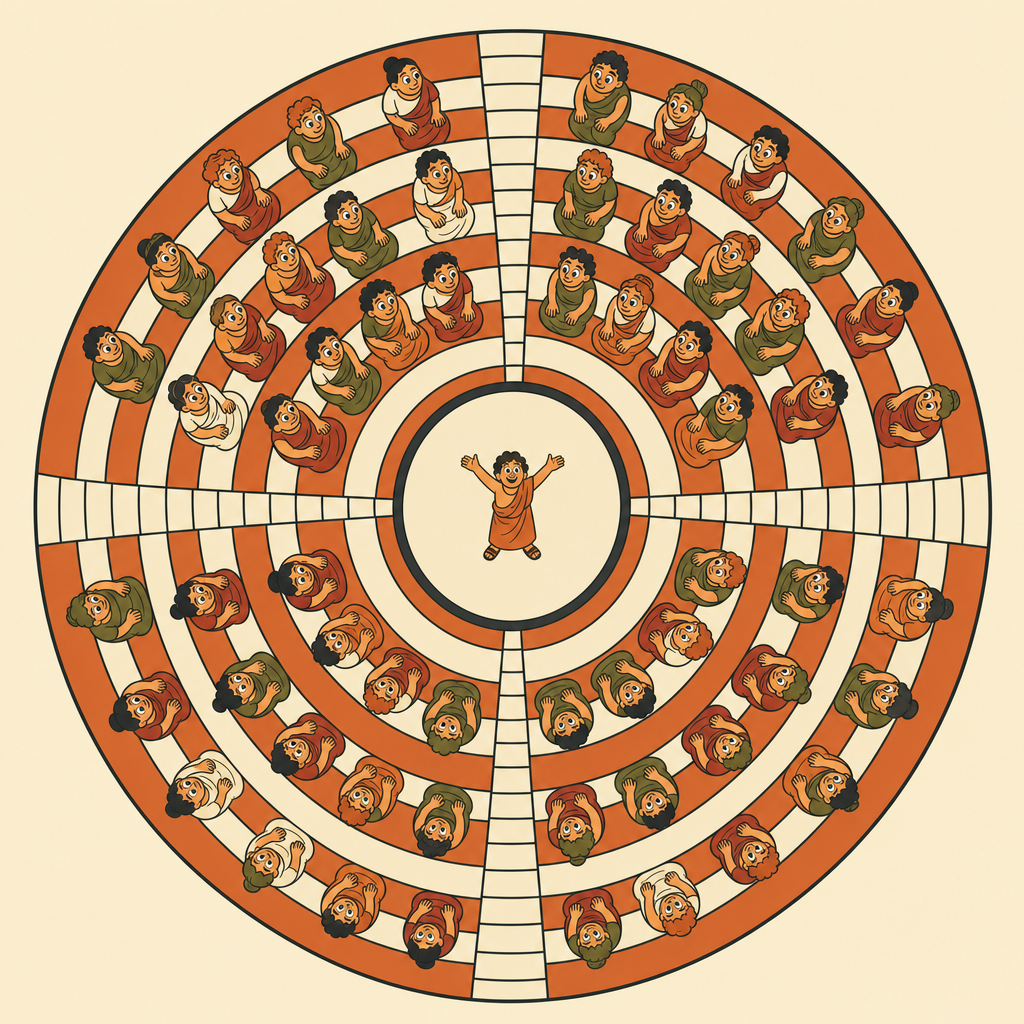
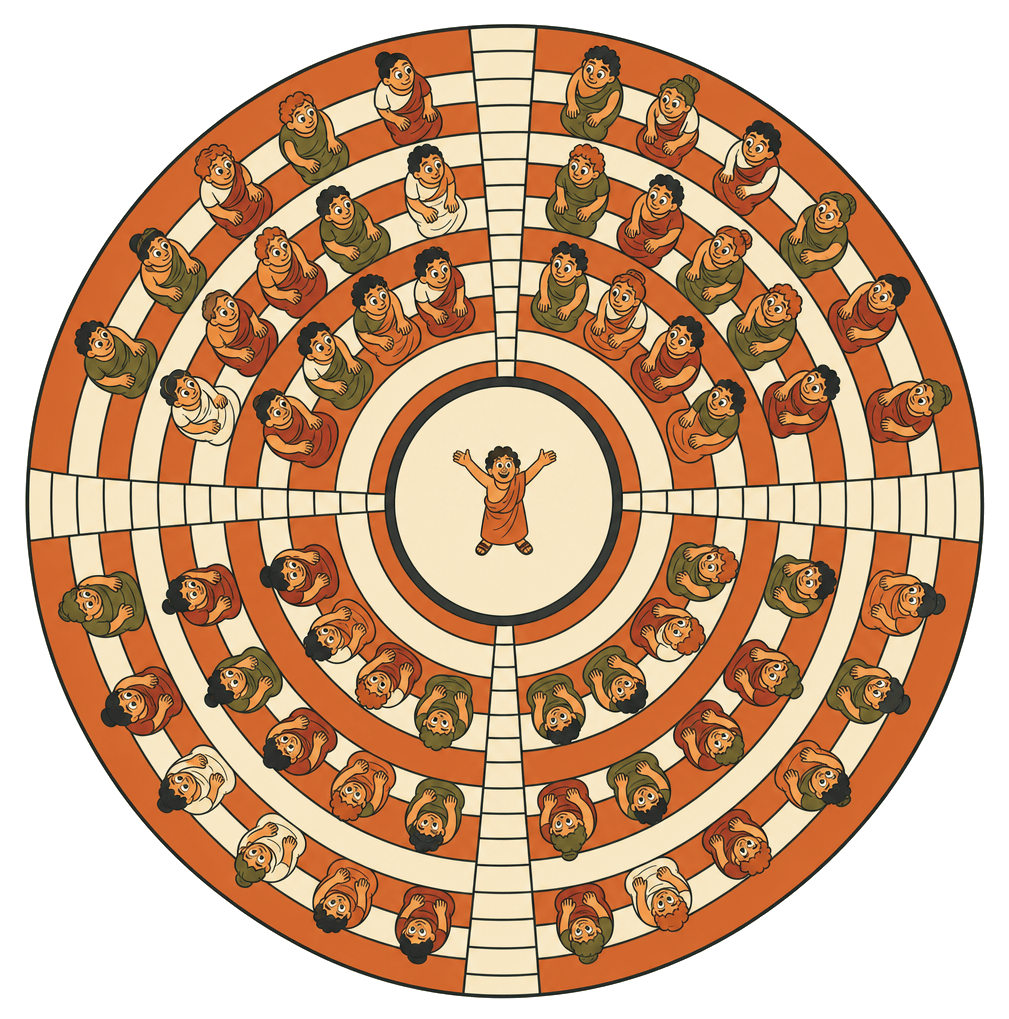
site: the plates become stickers — the generated cream cut to alpha, sat on the page (#13)
Reviewed: scratchpad/review-sono-stickers.md — 0 blocking; S1 (make.py target routing) fixed in c6be058; PNGs quantised.

diff --git a/site/og.html b/site/og.html
@@ -12,7 +12,7 @@
   corner; the real popover on the right — the app's own --render-preview,
   its "listening" state (a live line, the engine picker) — bleeding off the
   right and the bottom with the transcript and picker whole; the philosopher
-  and the scribe as a sticker (art/sticker.py → art/stickers/hero.png) in
+  and the scribe as a sticker (art/sticker.py → src/assets/plates/hero.png) in
   the left column below the copy, 460px wide, his feet just off the bottom,
   the sound arcs reaching the popover's edge. Text never overlays the art.
 
@@ -69,7 +69,7 @@
 <body>
   <div class="colonnade"></div>
   <img class="popover" src="src/assets/popover.png" alt="">
-  <img class="art" src="art/stickers/hero.png" alt="">
+  <img class="art" src="src/assets/plates/hero.png" alt="">
   <div class="pad">
     <div class="brand">
       <svg width="34" height="34" viewBox="0 0 32 32">

diff --git a/site/art/sticker.py b/site/art/sticker.py
@@ -1,30 +1,36 @@
 #!/usr/bin/env python3
 """
 The sticker cut, ported from rheocles/site/art/sticker.py. A generated plate
-arrives on its own flat cream, never quite the site's --stone; this lifts
-the drawing off it: flood-fill the background to transparency from the four
-edges, soften the one-pixel edge, trim to the drawing plus a constant
-margin, and write the result with alpha.
-
-On sonocles.com the plates stay on their cream rectangles — Len likes the
-hero as it is — so the stickers are for the social card only and land in
-art/stickers/, not src/assets/plates/. The originals in art/originals/ are
-the plates as make.py wrote them (the repo-root art/plates/ is the retired
-museum set); the script is idempotent from them.
+arrives on its own flat cream, never quite the site's --stone, so on the
+page each one reads as a slightly-off rectangle. This lifts the drawing off
+that cream so it sits directly on the page: flood-fill the background to
+transparency from the four edges, soften the one-pixel edge, trim to the
+drawing plus a constant margin, and write the result with alpha to
+src/assets/plates/, where index.astro imports it.
 
     python3 site/art/sticker.py             # every plate in art/originals
-    python3 site/art/sticker.py hero        # just that one
+    python3 site/art/sticker.py hero mic    # just those
 
-Needs Pillow, numpy and scipy — a throwaway venv, or `python3 -m pip
-install --user pillow numpy scipy`; not the site's dependencies.
+Post-processing, not regeneration: art/originals/ holds the plates as
+art/make.py wrote them (the repo-root art/plates/ is the retired museum set,
+not these), and this runs after it. It is idempotent from the originals, so
+running it twice is the same as running it once. Needs Pillow, numpy and
+scipy — a throwaway venv, or `python3 -m pip install --user pillow numpy
+scipy`; they are not the site's dependencies and do not belong in
+package.json.
 
 The fill only follows the background inward from the edges, so a cream area
-enclosed by an outline is left alone. A gap in an outline lets the fill leak
-into such an area and leaves a hole; the fix is a tighter TOLERANCE for that
-plate, below. A drawing that touches the frame cannot be helped here — it
-needs regenerating with everything inside the frame — so it goes in SKIP.
+enclosed by an outline (a tablet, a tunic, the theatre's rings) is left
+alone. A gap in an outline lets the fill leak into such an area and leaves a
+hole; the fix is a tighter TOLERANCE for that plate, below. A drawing that
+touches the frame cannot be helped here — it needs regenerating with
+everything inside the frame (art/make.py's style block asks for that) — so
+it goes in SKIP and ships on its rectangle, `boxed` in Plate.astro, rather
+than as half a sticker.
 """
 
+import shutil
+import subprocess
 import sys
 from pathlib import Path
 
@@ -33,10 +39,8 @@ from PIL import Image
 from scipy import ndimage
 
 HERE = Path(__file__).resolve().parent
-# The plates as make.py generated them (the repo-root art/plates/ is the
-# retired museum set, not these). Copied here untouched; the source.
 ORIGINALS = HERE / "originals"
-OUT = HERE / "stickers"
+OUT = HERE.parent / "src" / "assets" / "plates"
 
 # How far a pixel may sit from the background colour (max channel difference,
 # 0–255) and still be background. The plates' cream is flat, so this is
@@ -55,7 +59,8 @@ OPAQUE_AT = 110
 MARGIN = 24
 
 # Plates that touch the frame: the cut would show as a hard straight edge.
-# Copied through unchanged until they are regenerated (site/ART.md).
+# Copied through unchanged, and given `boxed` in index.astro, until they are
+# regenerated. None of the five, as of 13 Sep 2026.
 SKIP: set[str] = set()
 
 
@@ -111,6 +116,22 @@ def sticker(name: str, tolerance: int) -> tuple[int, int, int, int]:
     return left, top, right, bottom
 
 
+def shrink(path: Path) -> str:
+    """Quantise to a palette (pngquant) and repack (oxipng), in place. The
+    drawings are flat fills, so 256 colours plus alpha reproduce them to the
+    eye; checked on the page at 1× before this was switched on."""
+    tools = [tool for tool in ("pngquant", "oxipng") if shutil.which(tool)]
+    if "pngquant" in tools:
+        subprocess.run(
+            ["pngquant", "--quality", "85-100", "--speed", "1", "--strip", "--force", "--output", path, path],
+            check=True,
+        )
+    if "oxipng" in tools:
+        subprocess.run(["oxipng", "-q", "-o", "4", "--strip", "safe", path], check=True)
+    size = f"{path.stat().st_size / 1024:.0f} KB"
+    return f"{size} ({'+'.join(tools)})" if tools else f"{size} (no pngquant/oxipng on PATH; full PNG)"
+
+
 def main(argv: list[str]) -> int:
     names = argv or sorted(p.stem for p in ORIGINALS.glob("*.png"))
     OUT.mkdir(parents=True, exist_ok=True)
@@ -125,7 +146,8 @@ def main(argv: list[str]) -> int:
             continue
         tolerance = TOLERANCES.get(name, TOLERANCE)
         left, top, right, bottom = sticker(name, tolerance)
-        print(f"{name:8} tolerance {tolerance:3}  cut to {right - left}×{bottom - top} at ({left}, {top})")
+        size = shrink(OUT / f"{name}.png")
+        print(f"{name:8} tolerance {tolerance:3}  cut to {right - left}×{bottom - top} at ({left}, {top})  {size}")
     return 0
 
 

diff --git a/art/make.py b/art/make.py
@@ -8,9 +8,11 @@ Image assets for the Sonocles site, via OpenAI's gpt-image-2.
     python3 art/make.py --dry-run      # print prompts, spend nothing
 
 Every call costs money, so nothing regenerates unless asked: a plate that
-already exists in site/img is skipped unless --force. The talks repo learned
-this the expensive way — a pose library one `rm -rf` from gone — so the outputs
-here are committed, not scratch.
+already exists in site/art/originals is skipped unless --force. The talks repo
+learned this the expensive way — a pose library one `rm -rf` from gone — so the
+outputs here are committed, not scratch. The originals are not what the page
+shows: site/art/sticker.py cuts each one to a sticker (the generated cream
+lifted to alpha) into site/src/assets/plates; run it after any regeneration.
 
 THE DIRECTION
 Attic red-figure pottery, played straight and then subverted exactly once. The
@@ -33,7 +35,13 @@ import urllib.request
 from pathlib import Path
 
 ROOT = Path(__file__).resolve().parent.parent
-OUT = ROOT / "site" / "img"
+# The flat set lands here as hero.png, contention.png … (the "flat-" prefix
+# is the prompt's name, not the file's), and sticker.py reads it from here.
+OUT = ROOT / "site" / "art" / "originals"
+# The museum set keeps its own files, under its own names, where it already
+# lives; `--only hero --force` redoes the museum krater there and never the
+# flat hero the site uses.
+MUSEUM = ROOT / "art" / "plates"
 
 # The shared grammar. Every prompt inherits it so the set reads as one hand.
 STYLE = """
@@ -80,7 +88,10 @@ Palette strictly: warm terracotta orange, deep brick red, pale limestone cream,
 soft olive green, and a dark warm charcoal for outlines. Nothing else.
 
 Set on a plain flat pale limestone-cream background with generous empty space
-around the subject. No vase, no pottery, no crazing, no chips, no museum
+around the subject. The whole scene sits inside the picture: everything fully
+inside the frame, nothing touching the edges — the drawing is later cut out of
+its background as a sticker, and anything that runs off the edge would be cut
+with a straight side. No vase, no pottery, no crazing, no chips, no museum
 lighting, no plinth, no frame, no photographic background. Pure flat graphic
 illustration, as though screen printed.
 
@@ -317,16 +328,23 @@ PLATES = {
 }
 
 # Retired. The prompts stay for reproducibility; the names come out of the
-# default run, because OUT is site/img and none of these files are there —
-# the museum set lives in art/plates and flat-column was deleted as unused.
-# A bare `make.py` would therefore have treated all nine as missing and paid
-# to generate them, into the wrong directory. Still reachable deliberately:
-#   python3 art/make.py --only sherd
+# default run so a bare `make.py` only ever looks at the five the site uses.
+# Still reachable deliberately, each to its own file (target() below):
+#   python3 art/make.py --only sherd            # -> art/plates/sherd.png
+#   python3 art/make.py --only flat-column      # -> site/art/originals/column.png
 RETIRED = frozenset({
     "flat-column",
     "hero", "chorus", "theatre", "listener", "anachronism", "contention",
     "banner", "sherd",
 })
+
+
+def target(name: str) -> Path:
+    """Where a plate's file goes: the flat set to OUT without its prefix, the
+    museum set to MUSEUM under its own name."""
+    if name.startswith("flat-"):
+        return OUT / f"{name.removeprefix('flat-')}.png"
+    return MUSEUM / f"{name}.png"
 
 
 def load_env(path: Path) -> None:
@@ -389,8 +407,6 @@ def main() -> int:
         return 0
 
     wanted = args.only or [n for n in PLATES if n not in RETIRED]
-    OUT.mkdir(parents=True, exist_ok=True)
-
     if not args.dry_run:
         load_env(Path(args.env))
         key = os.environ.get("OPENAI_API_KEY")
@@ -406,9 +422,9 @@ def main() -> int:
             continue
 
         size, body, style = PLATES[name]
-        target = OUT / f"{name}.png"
+        out = target(name)
 
-        if target.exists() and not args.force:
+        if out.exists() and not args.force:
             print(f"{name:14} exists, skipping (--force to redo)")
             continue
 
@@ -420,8 +436,9 @@ def main() -> int:
 
         print(f"{name:14} generating {size} {args.quality}…", flush=True)
         try:
-            target.write_bytes(generate(size, body, args.quality, key, style))
-            print(f"{name:14} -> {target.relative_to(ROOT)}")
+            out.parent.mkdir(parents=True, exist_ok=True)
+            out.write_bytes(generate(size, body, args.quality, key, style))
+            print(f"{name:14} -> {out.relative_to(ROOT)}")
         except urllib.error.HTTPError as error:
             print(f"{name:14} FAILED {error.code}: {error.read()[:400]!r}", file=sys.stderr)
         except Exception as error:  # noqa: BLE001

diff --git a/site/README.md b/site/README.md
@@ -29,12 +29,19 @@ Brand: `../docs/BRAND.md`. Docs tree: `src/lib/docs-nav.ts`.
   landing page keeps its composed card, `public/img/og.png`, whose source is
   `og.html`: the popover (`src/assets/popover.png`, the app's own
   `--render-preview`, never a desktop capture) on the right, the philosopher
-  and the scribe as a sticker (`art/sticker.py` → `art/stickers/`, from the
-  untouched plate in `art/originals/`) in front. `node art/og.mjs og.html
+  and the scribe as a sticker (the same `src/assets/plates/hero.png` the
+  page uses) in front. `node art/og.mjs og.html
   public/img/og.png` renders it; the comment at the top of `og.html` says
   how to re-shoot the popover.
 - `sitemap-index.xml`, `robots.txt`, `404.html`, `_redirects`, the favicon
   set (`public/`, rasterised once from the mark).
 
-Plates: `src/assets/plates/`, generated once by `../art/make.py`. Every run
-costs money; do not run it to reproduce what is already there.
+Plates: generated once by `../art/make.py` into `art/originals/` (every run
+costs money; do not run it to reproduce what is already there), then cut to
+stickers by `art/sticker.py` — the generated cream flood-filled to alpha from
+the edges, so the drawing sits on the page's `--stone` instead of on its own
+slightly-off rectangle — into `src/assets/plates/`, which is what the page
+imports. Idempotent from the originals; needs Pillow, numpy and scipy in a
+throwaway venv, and quantises each sticker to a palette when pngquant and
+oxipng are on the PATH (`brew install pngquant oxipng`), about a quarter of
+the size with nothing visible lost.

diff --git a/docs/BRAND.md b/docs/BRAND.md
@@ -228,11 +228,15 @@ A tiny free utility should not present itself as an exhibit. Those prompts are
 still in `art/make.py` under `STYLE`, because the work was good even though the
 direction was not.
 
-`art/make.py` generates both sets. Two working notes, learned the expensive way.
-**No lettering, ever** — the model cannot spell Greek and gibberish reads as
-carelessness. And **specify clothing explicitly**: classical nudity is authentic
+`art/make.py` generates both sets. Three working notes, learned the expensive
+way. **No lettering, ever** — the model cannot spell Greek and gibberish reads
+as carelessness. **Specify clothing explicitly**: classical nudity is authentic
 to the source and will get a generation refused by content moderation, which
-costs a retry and teaches nothing.
+costs a retry and teaches nothing. And **everything fully inside the frame,
+nothing touching the edges**: a plate is cut to a sticker afterwards
+(`site/art/sticker.py` lifts the drawing off the generated cream, which is
+never quite the page's `--stone`), and a drawing that runs off the edge cannot
+be cut without a straight side — it ships boxed until it is regenerated.
 
 ## Copy
 
